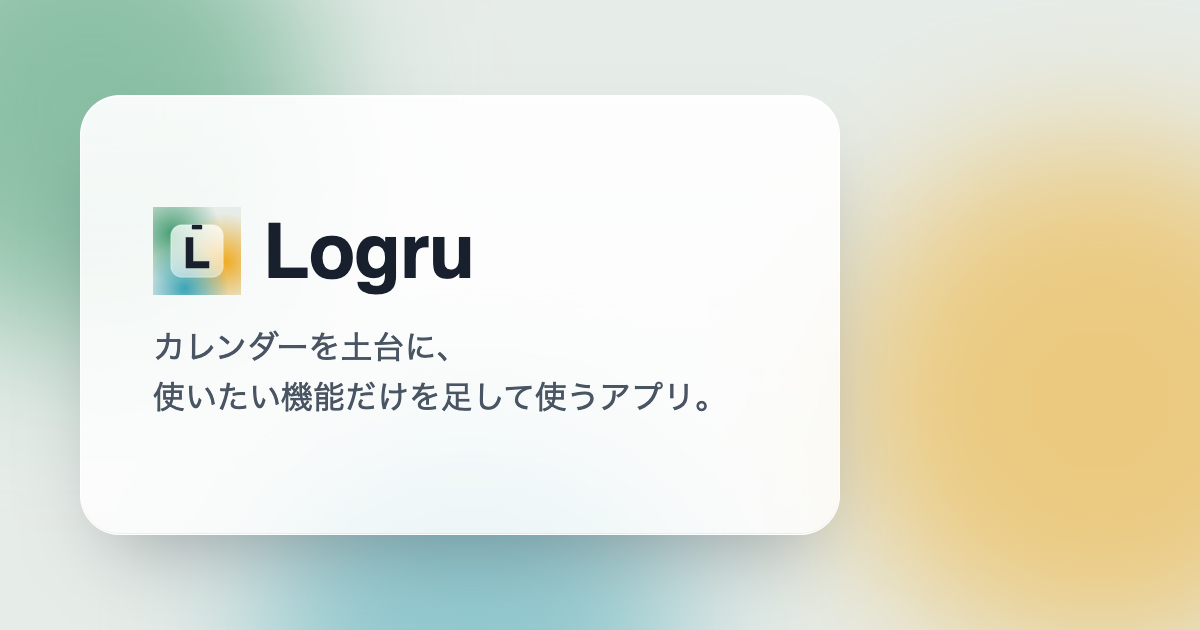
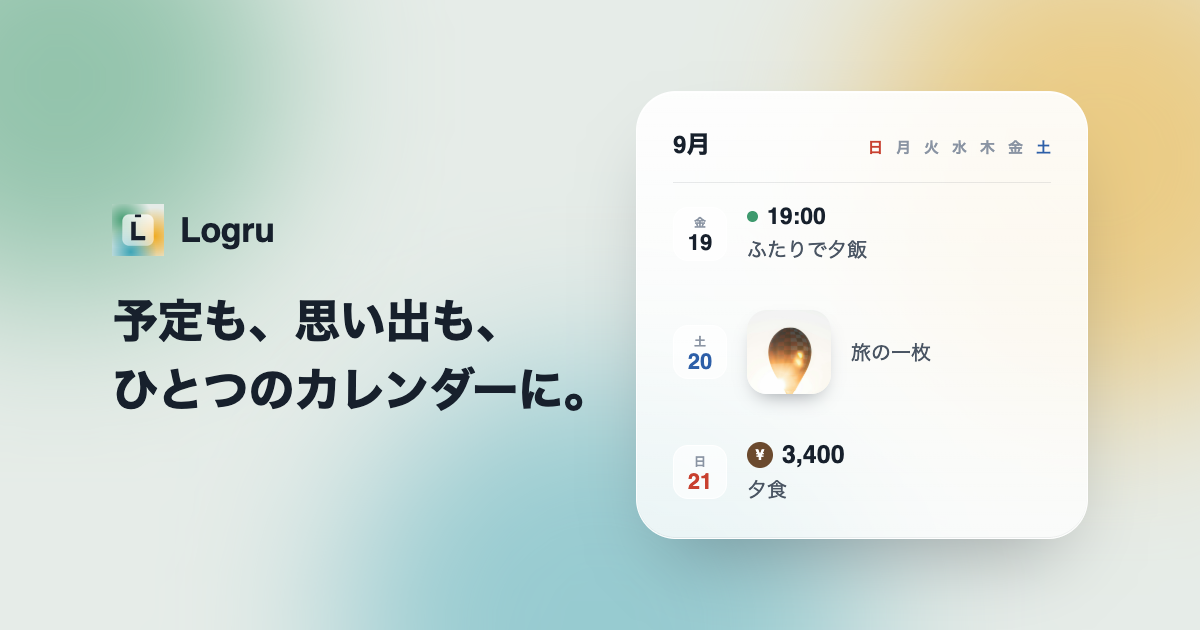
feat(#131): 共有カードの文言と画像を、何ができるかが伝わる形にする
LINE などへ貼ったときのカードが、何のアプリか伝わらないという kota の指摘を直す。
og:title と description を「だれと何をどこに残せるか」が先に伝わる文言にし、
招待のカードの説明も同じ方向にそろえる。決定0042を更新した。

カードの画像(public/og-image.png)を作り直す。左にロゴと大きな文、右にスマホの
カレンダーの一部を描き、予定の札・思い出の写真・家計簿の金額を 1 つずつ置いた。
写真は Unsplash License の実写(Marcin Kempa 氏の作品)を焼き込む。出どころは決定0042に書いた。

diff --git a/index.html b/index.html
@@ -3,16 +3,16 @@
   <head>
     <meta charset="utf-8" />
     <meta name="viewport" content="width=device-width, initial-scale=1, viewport-fit=cover" />
-    <meta name="description" content="カレンダーを土台に、使いたい機能だけを足して使うアプリ。" />
+    <meta name="description" content="家族や恋人と予定を分け合えるカレンダー。旅の思い出や毎日の写真、家計簿も同じ日に残せます。" />
     <meta name="theme-color" content="#e6ece8" />
     <link rel="icon" href="/icon.svg" type="image/svg+xml" />
     <link rel="apple-touch-icon" href="/apple-touch-icon.png" />
     <meta name="apple-mobile-web-app-capable" content="yes" />
     <meta name="apple-mobile-web-app-status-bar-style" content="default" />
-    <!-- LINE などへ貼ったときのカード。招待リンク(/invite/:token)だけは Worker が文言を書き換える。#93 -->
+    <!-- LINE などへ貼ったときのカード。招待リンク(/invite/:token)だけは Worker が文言を書き換える。#93、#131 -->
     <meta property="og:type" content="website" />
-    <meta property="og:title" content="Logru" />
-    <meta property="og:description" content="カレンダーを土台に、使いたい機能だけを足して使うアプリ。" />
+    <meta property="og:title" content="Logru(ログる)予定も思い出も、ひとつのカレンダーに" />
+    <meta property="og:description" content="家族や恋人と予定を分け合えるカレンダー。旅の思い出や毎日の写真、家計簿も同じ日に残せます。" />
     <meta property="og:image" content="https://logru-production.tkkwkut-400.workers.dev/og-image.png" />
     <meta property="og:url" content="https://logru-production.tkkwkut-400.workers.dev/" />
     <meta name="twitter:card" content="summary_large_image" />

diff --git a/src/server/core/invite-og.ts b/src/server/core/invite-og.ts
@@ -3,7 +3,7 @@
  *
  * index.html は 1 つしか無いので、招待リンクの分だけ Worker が OG タグを書き換えて返す。
  * DB は読まない。グループの名前や招待した人の名前は入れない。LINE の下見のサーバーが
- * 結果をキャッシュに残すため、グループが変わっても文言は同じにする。#93
+ * 結果をキャッシュに残すため、グループが変わっても文言は同じにする。#93、#131
  */
 
 const INVITE_PATH = /^\/invite\/([^/]+)$/;
@@ -31,7 +31,11 @@ function setMetaContent(html: string, property: string, content: string): string
  */
 export function rewriteInviteMeta(html: string, appUrl: string, token: string): string {
   const withTitle = setMetaContent(html, "og:title", "Logru への招待");
-  const withDescription = setMetaContent(withTitle, "og:description", "Logru への招待が届いています。");
+  const withDescription = setMetaContent(
+    withTitle,
+    "og:description",
+    "Logru で、いっしょに予定を分け合いませんか。リンクから参加できます。",
+  );
   const withUrl = setMetaContent(withDescription, "og:url", `${appUrl}/invite/${token}`);
   return setMetaContent(withUrl, "og:image", `${appUrl}/og-image.png`);
 }

diff --git a/tests/worker/invite-og.test.ts b/tests/worker/invite-og.test.ts
@@ -32,7 +32,9 @@ describe("rewriteInviteMeta", () => {
   it("招待リンク用の文言に書き換え、グループの名前は入れない", () => {
     const out = rewriteInviteMeta(html, "https://logru-staging.tkkwkut-400.workers.dev", "abc123");
     expect(out).toContain('<meta property="og:title" content="Logru への招待" />');
-    expect(out).toContain('<meta property="og:description" content="Logru への招待が届いています。" />');
+    expect(out).toContain(
+      '<meta property="og:description" content="Logru で、いっしょに予定を分け合いませんか。リンクから参加できます。" />',
+    );
     expect(out).toContain(
       '<meta property="og:url" content="https://logru-staging.tkkwkut-400.workers.dev/invite/abc123" />',
     );

diff --git a/vite.config.ts b/vite.config.ts
@@ -64,7 +64,7 @@ export default defineConfig(({ mode }) => ({
       manifest: {
         name: "Logru",
         short_name: "Logru",
-        description: "カレンダーを土台に、使いたい機能だけを足して使うアプリ。",
+        description: "家族や恋人と予定を分け合えるカレンダー。旅の思い出や毎日の写真、家計簿も同じ日に残せます。",
         lang: "ja",
         start_url: "/",
         scope: "/",
